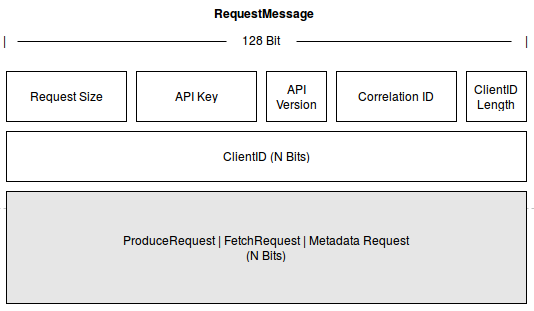
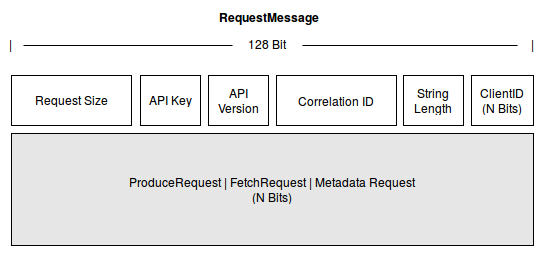
add metadata request to protocol implementation

diff --git a/implementation_protocol.tex b/implementation_protocol.tex
@@ -4,7 +4,7 @@
 This chapter provides details of the implementation of the Kafka protocol, which
 acts as basis for all further functionality. The definition of the original
 protocol is given as context free grammar for the request and response binary
-format. Therefore it seemed likely to adopt the rules of the grammar to our
+format \cite{kafka-protocol}. Therefore it seemed likely to adopt the rules of the grammar to our
 protocol implementation by map them with the Haskell type system. In a second
 step encoding and decoding functionality was implemented for getting messages
 from data structure to binary format and backwards. In addition to the protocol,
@@ -29,7 +29,10 @@ three kind of types:
 \begin{enumerate}
   \item Related to request
   \item Related to response
-  \item Related to data (for either request or response but can also be used for the \fnurl{Apache Kafka Log}{http://kafka.apache.org/documentation.html\#log} component since log files (on-disk) hold the same structure)
+  \item Related to data (for either request or response but can also be used for
+      the \fnurl{Apache Kafka
+      Log}{http://kafka.apache.org/documentation.html\#log} component since log
+      files (on-disk) hold the same structure) 
 \end{enumerate}
 
 As mentioned before, the representation of the protocol structure is implemented
@@ -183,7 +186,7 @@ broker.
 
 Each request message has its same header fields independent for which API they are used. 
 The real payload of the request is individual to the particular API which is
-used. 
+used.
 
 \begin{figure}[H]
     \centering
@@ -191,7 +194,7 @@ used.
     \caption{Format of type RequestMessage}
     \label{fig:impl-prot-types-requestMessage}
 \end{figure}
-\todo{figure false! (see table)}
+
 \begin{table}[H]
 \centering
 \begin{tabular}{ l  l  p{10cm} }
@@ -206,7 +209,17 @@ Request       &                 & API specific Request type (either ProduceReque
 \end{tabular}
 \end{table}
 
-TODO: Because the RequestSize is only needed once to determine the length of the whole Request, it is is not part of the type RequestMessage
+Regarding to the API key the following numeric codes are already provided by the
+protocol implementation (other API's are not implemented yet): 
+\begin{table}[h]
+    \centering
+    \begin{tabular}{ll}
+        {\bf API Name}  & {\bf ApiKey Value} \\
+        ProduceRequest  & 0                  \\
+        FetchRequest    & 1                  \\
+        MetadataRequest & 3                 
+    \end{tabular}
+\end{table}
 
 \subsubsection{ProduceRequest}
 \label{subsec:protocol-types-producerequest}
@@ -234,8 +247,6 @@ ListLength    & Data.Word32 & Number of element in following list.              
 {[}RqPrTopic{]} & Data.List   & Sequence of RqPrTopics, see below.                                                                                                  \\ \hline
 \end{tabular}
 \end{table}
-
-TODO: Functionality of ReqAcks and Timeout are not implemented yet. 
 
 A ProduceRequest includes N repetitions of the RqPrTopic type whereas the producer
 client is able to send messages for multiple different topics:
@@ -339,6 +350,31 @@ MaxBytes        & Data.Word32 & Minimum number of bytes of messages that must be
 \end{tabular}
 \end{table}
 
+\subsubsection{Metadata Request}
+The request format for the metadata is fairly simple. Actually the
+RequestMessage header with the appropriate APIkey suffices to initiate the
+broker to reponse meta information about existing topics, partitions and
+brokers. The request contains an optional list of topics, for which explicit
+information is requested.
+
+\begin{figure}[H]
+    \centering
+    \includegraphics[width=0.7\textwidth]{images/impl-prot-types-metadataRequest.png}
+    \caption{Format of type MetadataRequest, * = N repetitions}
+    \label{fig:impl-prot-types-ftPartition}
+\end{figure}
+
+\begin{table}[H]
+\centering
+\begin{tabular}{ l  l  p{10cm} }
+\hline
+ListLength    & Data.Word32 & Number of element in following list.                                                                                             \\ \hline
+StringLength      & Data.Word16     & Length, in bytes, of string TopicName.              \\ \hline
+TopicName         & Data.ByteString & . The topic to produce metadata for. If
+empty the request will yield metadata for all topics  \\ \hline
+\end{tabular}
+\end{table}
+
 \subsection{Types related to Response}
 A response message is the on-wire format of data which is getting from broker to
 client.
@@ -394,7 +430,7 @@ ListLength        & Data.Word32     & Number of element in following list.\\ \hl
 \begin{figure}[H]
     \centering
     \includegraphics[width=0.7\textwidth]{images/impl-prot-types-prPayload.png}
-    \caption{Format of type RsPrPayload. * = N repetitions}
+    \caption{Format of type RsPrPayload, * = N repetitions}
     \label{fig:impl-prot-types-prPayload}
 \end{figure}
 
@@ -420,7 +456,6 @@ sequence of MessageSet's (see \ref{impl-protocol-types-data}).
     \centering
     \includegraphics[width=0.7\textwidth]{images/impl-prot-types-fetchResponse.png}
     \caption{Format of type FetchResponse}
-    \label{fig:impl-prot-types-fetchResponse}
 \end{figure}
 
 \begin{table}[H]
@@ -439,7 +474,6 @@ ListLength        & Data.Word32     & Number of element in following list.\\ \hl
     \centering
     \includegraphics[width=0.7\textwidth]{images/impl-prot-types-ftPayload.png}
     \caption{Format of type RsFtPayload}
-    \label{fig:impl-prot-types-ftPayload}
 \end{figure}
 
 \begin{table}[H]
@@ -454,6 +488,70 @@ MessageSetSize      & Data.Word32 & The size in bytes of the message set for thi
 \end{tabular}
 \end{table}
 
+\subsubsection{Metadata Response}
+As simple the metadata request is, the more complex the response format turns
+out. It contains information about provided brokers, topics, partitions and
+their replication status. 
+
+\begin{figure}[H]
+    \centering
+    \includegraphics[width=0.7\textwidth]{images/impl-prot-types-metadataResponse.png}
+    \caption{Format of type MetadataResponse, * = N repetitions}
+\end{figure}
+
+\begin{figure}[H]
+    \centering
+    \includegraphics[width=0.7\textwidth]{images/impl-prot-types-mdPayloadBroker.png}
+    \caption{Format of type RsMdPayloadBroker} 
+\end{figure}
+
+\begin{figure}[H]
+    \centering
+    \includegraphics[width=0.7\textwidth]{images/impl-prot-types-mdPayloadTopic.png}
+    \caption{Format of type RsMdPayloadTopic, * N repetitions} 
+\end{figure}
+
+
+\begin{table}[H]
+\centering
+\begin{tabular}{ l  l  p{10cm} }
+\hline
+ListLength        & Data.Word32     & Number of element in following list.\\ \hline
+[RsMdPayloadBroker] & Data.List     & Sequence of RsMdPayloadBroker, contains
+node Id, hostname and port information of broker.  \\ \hline
+ListLength        & Data.Word32     & Number of element in following list.\\ \hline
+[RsMdPayloadTopic] & Data.List     & Sequence of RsMdPayloadTopic, contains all,
+or the requested topic names with approriate error code which determines status.
+Also contains a sequence of RsMdPayloadMetadata, see below. \\ \hline
+\end{tabular}
+\end{table}
+
+\begin{figure}[H]
+    \centering
+    \includegraphics[width=0.7\textwidth]{images/impl-prot-types-mdPartitionMetadata.png}
+    \caption{Format of type RsMdPartitionMetadata} 
+\end{figure}
+
+\begin{table}[H]
+\centering
+\begin{tabular}{ l  l  p{10cm} }
+\hline
+PartitionErrorCode  & Data.Word16 & Partition specific error code.                                                          \\ \hline
+PartitionNumber     & Data.Word32 & Number of Partition this metadata is for.                                               \\ \hline
+Leader              & Data.Word32 & The node id for the broker currently acting as leader for this partition.
+                       If no leader exists because when beeinh in the middle of
+                       a leader election this id will be -1.                                                                \\ \hline
+ListLength        & Data.Word32     & Number of element in following list.                                                  \\ \hline
+[Replicas]         & Data.List & The set of alive nodes that currently acts as
+                       slaves for the leader for this partition, given as
+                       Data.Word32.                                                                                        \\ \hline
+ListLength        & Data.Word32     & Number of element in following list.                                                  \\ \hline
+[Isr]   & Data.List   & The set subset of the replicas that are "caught up" to
+                       the leader, given as Data.Word32.        \\ \hline
+\end{tabular}
+\end{table}
+
+
 \subsection{Types related to Data}
 \label{impl-protocol-types-data}
 The actual transported data has a common structure,
@@ -465,7 +563,7 @@ from it.
 \begin{figure}[H]
     \centering
     \includegraphics[width=0.7\textwidth]{images/impl-prot-types-messageSet.png}
-    \caption{Format of type MessageSet}
+    \caption{Format of type MessageSet including type Message and Payload}
     \label{fig:impl-prot-types-messageSet}
 \end{figure}
 
@@ -484,12 +582,12 @@ Message is part of the MessageSet and contains a checksum to check integrity of
 the actual payload of the message. To abstract the fields which are checked we
 combine them in another type, see Payload.
 
-\begin{figure}[H]
-    \centering
-    \includegraphics[width=0.7\textwidth]{images/impl-prot-types-message.png}
-    \caption{Format of type Message}
-    \label{fig:impl-prot-types-message}
-\end{figure}
+%\begin{figure}[H]
+%    \centering
+%    \includegraphics[width=0.7\textwidth]{images/impl-prot-types-message.png}
+%    \caption{Format of type Message}
+%    \label{fig:impl-prot-types-message}
+%\end{figure}
 
 \begin{table}[H]
 \centering
@@ -503,12 +601,12 @@ Payload &      & Payload format, see below.                                     
 \subsubsection{Payload}
 This types defines the actual payload of a message with its meta info.
 
-\begin{figure}[H]
-    \centering
-    \includegraphics[width=0.7\textwidth]{images/impl-prot-types-payload.png}
-    \caption{Format of type Payload}
-    \label{fig:impl-prot-types-payload}
-\end{figure}
+%\begin{figure}[H]
+%    \centering
+%    \includegraphics[width=0.7\textwidth]{images/impl-prot-types-payload.png}
+%    \caption{Format of type Payload}
+%    \label{fig:impl-prot-types-payload}
+%\end{figure}
 
 \begin{table}[H]
 \centering
@@ -519,35 +617,11 @@ Attributes  & Data.Word8      & This byte holds metadata attributes about the me
 KeyLen      & Data.Word32     & Determines length of Key field in bytes.                                                                                                                         \\ \hline
 Key         & Data.ByteString & The key is an optional message key that is used for partition assignment. The key can be null.                                                                  \\ \hline
 ValueLength & Data.Word32     & Determines length of Value field in bytes.                                                                                                                      \\ \hline
-Value       & Data.ByteString & The actual message contents as an opaque byte array. The message can be null.                                                                                   \\ \hline
+Value       & Data.ByteString & The actual message contents as an byte array. The message can be null. Kafka also supports recursive messages in which case 
+                                the value may itself contain a message set. This
+                                functionality is not implemented yet.                                                                                                                            \\ \hline
 \end{tabular}
 \end{table}
-
-TODO: Kafka supports recursive messages in which case this may itself contain a message set. --> not implemented yet  
-
-%\subsection{API's}
-%\todo{-> verschieben in Kap Kafka detail? }
-%\subsubsection{Metadata API}
-%Describes the currently available brokers, their host and port information, and
-%gives information about which broker hosts which partitions.
-
-
-%\subsubsection{Fetch API}
-%Fetchs / Consumes messages from the broker.
-%\subsubsection{Offset API}
-%Get information about the available offsets for a given topic partition
-
-%\textbf{Not implemented yet}
-
-%\subsubsection{Offset Commit API}
-%Commit a set of offsets for a consumer group
-
-%\textbf{Not implemented yet}
-
-%\subsubsection{Offset Commit API}
-%Fetch a set of offsets for a consumer group
-
-%\textbf{Not implemented yet}
 
 \section{Encode / Decode}
 

diff --git a/implementation_broker.tex b/implementation_broker.tex
@@ -281,6 +281,7 @@ getHost = do
         filter ((N.NetworkInterface name ipv4 ipv6 mac) -> name == "eth0") ns
 \end{lstlisting}
 
+\newpage
 \section{Error Handling}
 \label{sec:broker-error-handling}
 
